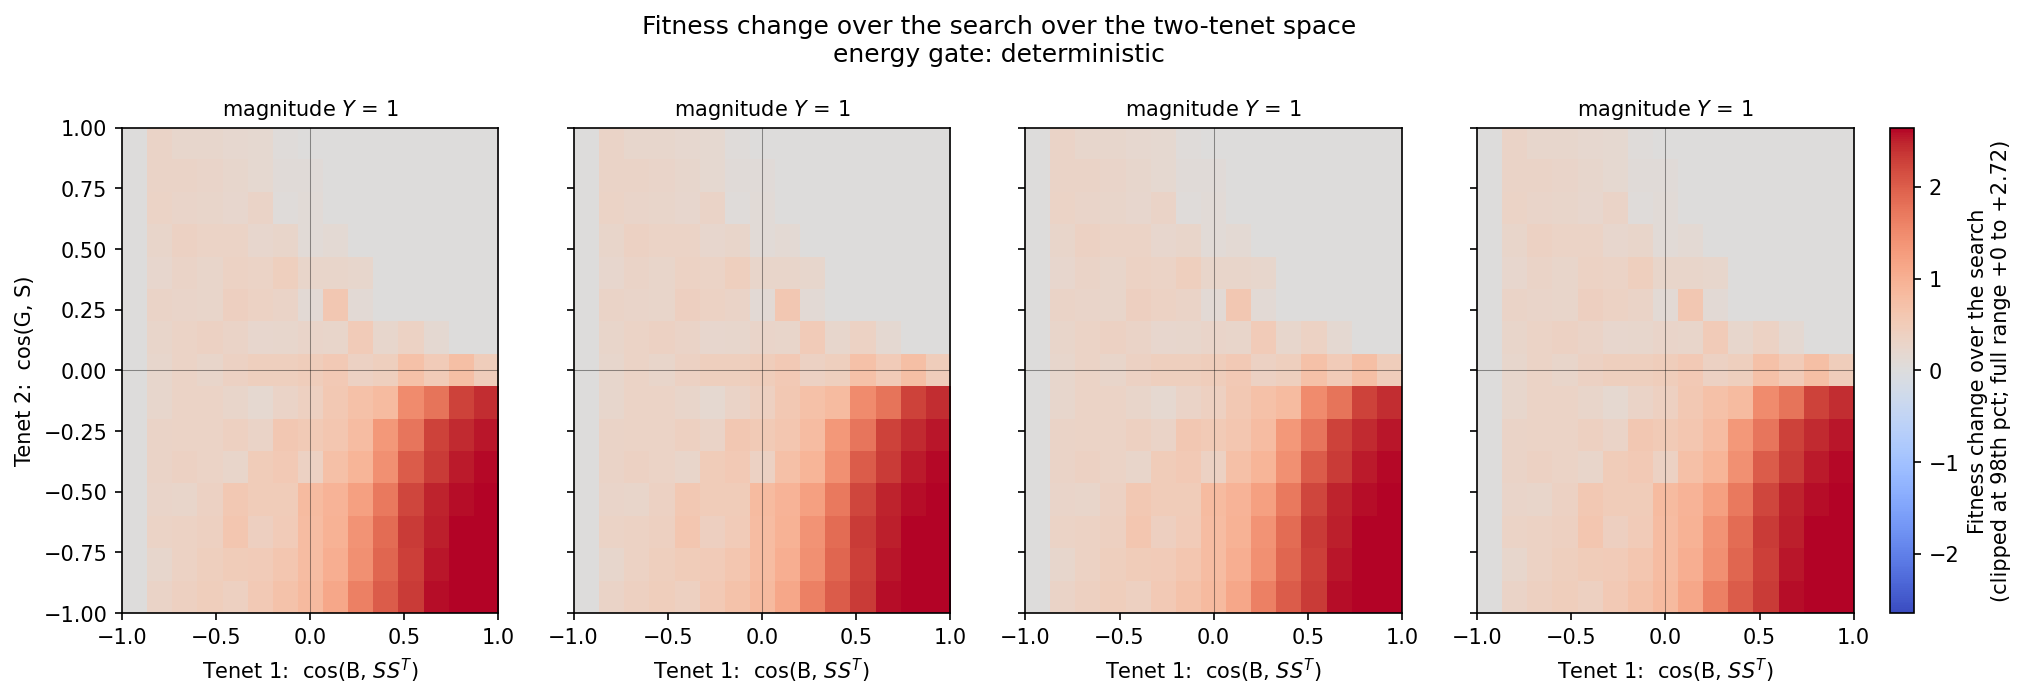
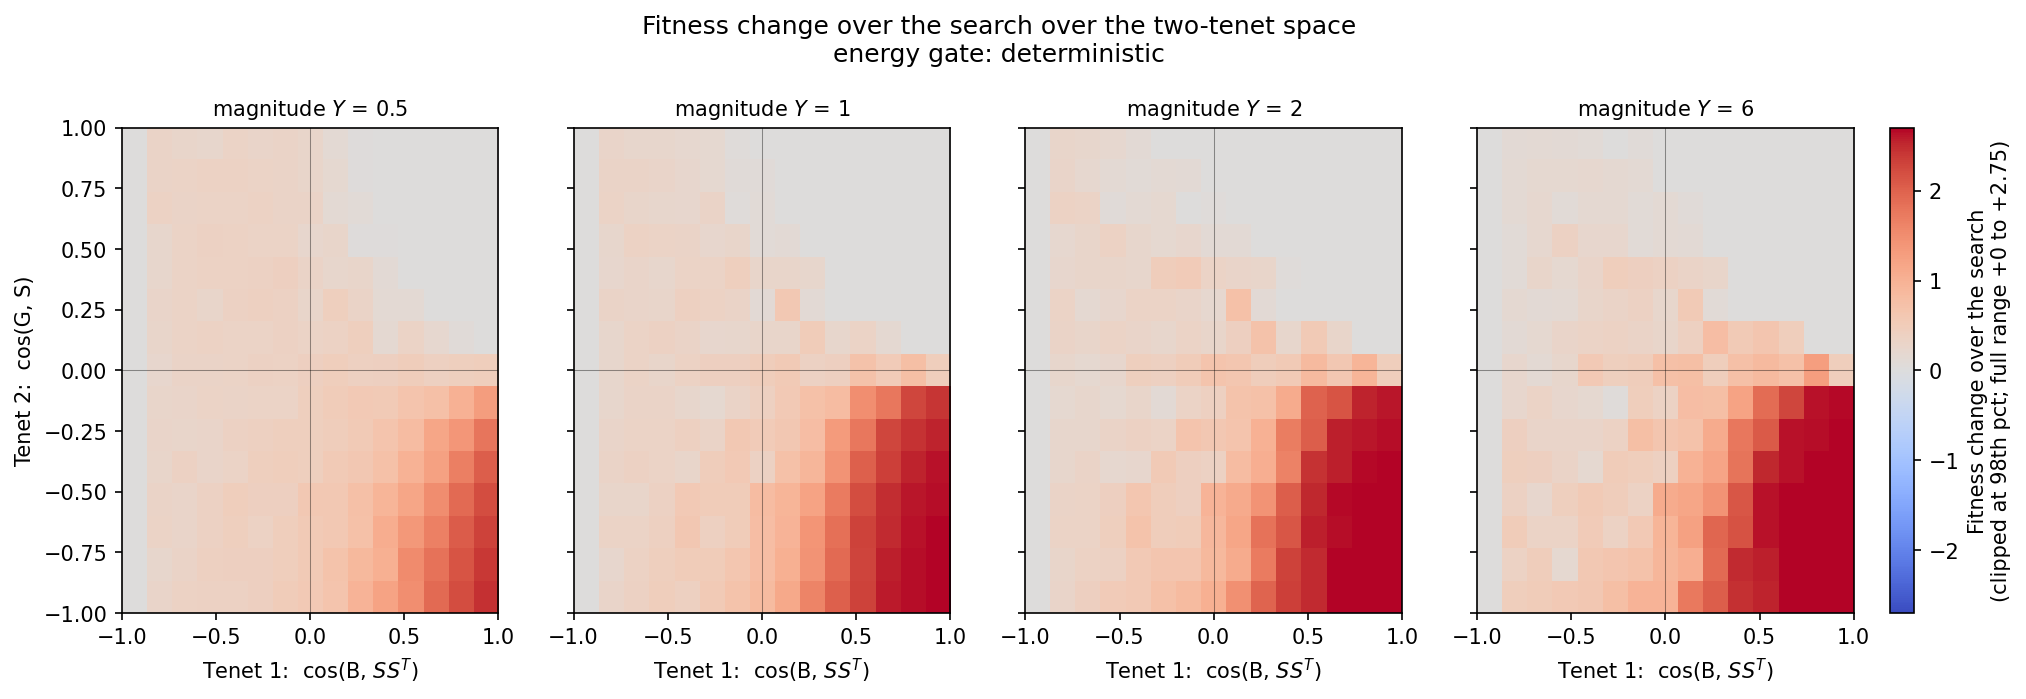
Message

diff --git a/Tenets.py b/Tenets.py
@@ -3,10 +3,9 @@ import numpy as np
  
  
 """Local Imports"""
-from Config import Config
+from Config import Config, make_rng
 from GRN import DTYPE, _cos, handle_develop, evaluate_fitness, masked_matrix
 from Induction import handle_induction
-from Plastic_Induction import energy, differential_energy
  
  
  
@@ -160,6 +159,78 @@ def plastic_measure_surface(
 
                 if cfg.induction:
                     history = handle_induction(B, P, G, cfg, rng, S = S_eval)
+                    M = history[measure]
+                    acc += M
+
+                else:
+                    acc += evaluate_fitness(P, S_eval, cfg)
+ 
+ 
+            Z[i, j] = acc / n_seeds
+ 
+ 
+    return {
+        "Z": Z,
+        "a1_grid": a1_grid,
+        "a2_grid": a2_grid,
+        "Y": cfg.Y,
+        "measure": measure,
+        "max_tenet1_error": float(np.max(np.abs(check1))),
+        "max_tenet2_error": float(np.max(np.abs(check2))),
+    }
+
+
+
+  
+def plastic_measure_surface(
+        cfg: Config,
+        rng: np.random.Generator,
+        measure: str = "auc_inner",
+        S_eval: np.ndarray = None,
+        n_seeds: int = 4,
+        amplitude: float = 1.0,
+        grid: int = 15
+    ) -> dict:
+    S_eval = cfg.target if S_eval is None else np.asarray(S_eval, dtype = DTYPE)
+ 
+ 
+    if S_eval.size != cfg.N:
+ 
+        raise ValueError(f"S_eval has {S_eval.size} genes but N={cfg.N}")
+ 
+ 
+    a1_grid = np.linspace(-1, 1, grid)
+    a2_grid = np.linspace(-1, 1, grid)
+ 
+    Z = np.zeros((a2_grid.size, a1_grid.size))
+    check1, check2 = [], []
+ 
+ 
+    for i, a2 in enumerate(a2_grid):
+ 
+        for j, a1 in enumerate(a1_grid):
+ 
+            acc = 0.0
+ 
+ 
+            for _ in range(n_seeds):
+                B = cfg.Y * synthesise_B(a1, cfg, rng)
+                G = synthesise_G(a2, cfg, rng, S = S_eval, amplitude = amplitude)
+ 
+                check1.append(measure_tenet1(B, cfg) - a1)
+                check2.append(measure_tenet2(G, cfg, S_eval) - a2)
+ 
+                # Develop under the SCALED matrix, then run the plastic search
+                # on that phenotype with the same matrix.
+                P = handle_develop(G, B, cfg, induction = False)
+ 
+                # Own stream for the walk, seeded from the synthesis stream (see
+                # fitness_surface for why).
+                walk_rng = make_rng(int(rng.integers(2**31)))
+
+
+                if cfg.induction:
+                    history = handle_induction(B, P, G, cfg, walk_rng, S = S_eval, limit_return = False)
                     M = history[measure]
                     acc += M
 

diff --git a/R_round_induction.py b/R_round_induction.py
@@ -30,6 +30,7 @@ def r_round_induction(
     if AUC == -1:
         search = plastic_search_return_wrapper(B, P, cfg, rng, S, limit_return = True)
         AUC = search["auc_inner"]
+
     
     round_curves = []
  
@@ -84,7 +85,7 @@ def r_round_induction(
         # Redevelop the Genotype under the new interaction matrix
         if cfg.relax:
             # Relaxing the genotype is ordinary development: use T, not r_T.
-            P = handle_develop(G, B, cfg, induction = False)
+            P = handle_develop(P_, B, cfg, induction = False)
             F = evaluate_fitness(P, S, cfg)
             outer_curve.append(F)
  
@@ -117,7 +118,7 @@ def r_round_induction_return_wrapper(
         rng: np.random.Generator, 
         S: np.ndarray = None, 
         limit_return: bool = False, 
-        AUC: float = 0.0
+        AUC: float = -1
     ) -> dict:
     B, P, F, inner_curve, outer_curve, align_curve, round_curves = r_round_induction(B, P, G, cfg, rng, S, AUC)
  

diff --git a/Experiment4.py b/Experiment4.py
@@ -3,7 +3,7 @@ import os
  
  
 """Local Imports"""
-from Config import Config, make_rng, ENERGY_GATES
+from Config import Config, make_rng
 from Data import S1
 from Tenets import plastic_measure_surface
 from Plotting import plot_measure_surfaces
@@ -44,6 +44,7 @@ if __name__ == "__main__":
 
 
         for Y in [0.5, 1.0, 2.0, 6.0]:
+            cfg = cfg.set(Y = Y)
 
             # Same stream per panel so the panels are comparable.
             result = plastic_measure_surface(
@@ -65,6 +66,5 @@ if __name__ == "__main__":
             colour_scale = "percentile"
         )
 
-        span = [f"{s['Z'].min():+.4f}..{s['Z'].max():+.4f}" for s in surfaces]
-        print(f"deterministic | {key:<16} ranges per Y: {'  '.join(span)}")
+
         print(f"         wrote {OUTPUT}")

diff --git a/Experiment3.py b/Experiment3.py
@@ -44,6 +44,7 @@ if __name__ == "__main__":
 
 
         for Y in [0.5, 1.0, 2.0, 6.0]:
+            cfg = cfg.set(Y = Y)
 
             # Same stream per panel so the panels are comparable.
             result = plastic_measure_surface(
@@ -65,6 +66,5 @@ if __name__ == "__main__":
             colour_scale = "percentile"
         )
 
-        span = [f"{s['Z'].min():+.4f}..{s['Z'].max():+.4f}" for s in surfaces]
-        print(f"deterministic | {key:<16} ranges per Y: {'  '.join(span)}")
+        
         print(f"         wrote {OUTPUT}")

diff --git a/Analysis.py b/Analysis.py
@@ -150,6 +150,6 @@ def arm_summary_table(summary: dict, arm: str, n_seeds: int, save_loc: str, titl
         column_tites = columns,
         row_results = rows,
         save_loc = save_loc,
-        title = f"{title} ({f"{arm} arm, {n_seeds} seeds"})",
+        title = f"{title} ({arm} arm, {n_seeds} seeds)",
         sig = sig
     )

diff --git a/Induction.py b/Induction.py
@@ -18,7 +18,7 @@ def handle_induction(
         rng: np.random.Generator,
         S: np.ndarray = None,
         limit_return: bool = False,
-        AUC: float = 0.0
+        AUC: float = -1
     ) -> dict[any]:
 
     history = {}
